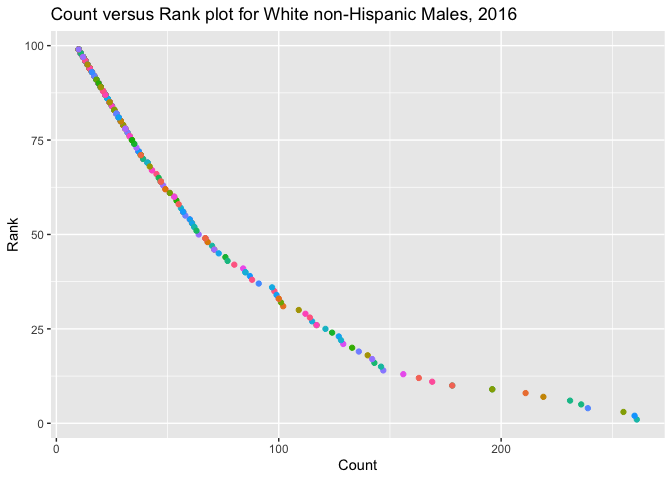
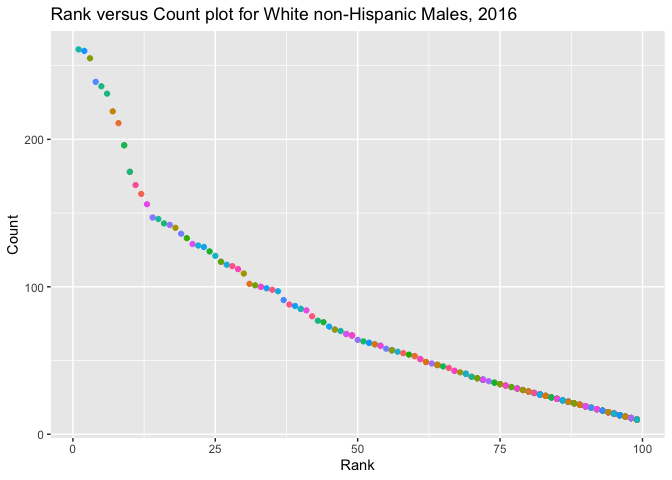
Final touches to scatterplot and descriptions.

diff --git a/hw2_if2282.md b/hw2_if2282.md
@@ -73,9 +73,11 @@ pol_months =
 
 snp = 
   read_csv("data/fivethirtyeight_datasets/snp.csv") %>% 
-  mutate(date = as.Date(date, "%m/%d/%y")) %>%
-  separate(date, sep = '-', into = c("year", "month", "day")) %>%
+  separate(date, sep = '/', into = c("month", "day", "year")) %>%
+  mutate(year = as.numeric(year)) %>%
+  mutate(year = ifelse(year < 20, 2000 + year, 1900 + year)) %>%
   mutate(month = month.abb[as.numeric(month)]) %>%
+  mutate(year = as.character(year)) %>%
   select(-day)
 
 unemploy = 
@@ -97,18 +99,19 @@ fivethree8 =
 
 The pol\_months dataset is related to the number of national politicians
 who are democratic or republican at any given time. The dataset
-contained 822 observations. The snp dataset is related to Standard &
-Poor’s stock market index (S&P), often used as a representative measure
-of stock market as a whole. The dataset contained 787 observations.
-Lastly, the unemploy dataset contains the unemployment rates of the
-years and months. The dataset contained 816 observations.
+contained 822 observations ranging from 1947 to 2015. The snp dataset is
+related to Standard & Poor’s stock market index (S&P), often used as a
+representative measure of stock market as a whole. The dataset contained
+787 observations ranging from 1950 to 2015. Lastly, the unemploy dataset
+contains the unemployment rates of the years and months. The dataset
+contained 816 observations ranging from 1948 to 2015.
 
 The fivethree8 dataset was a merge of all the three datasets listed
-above. It had a total of 558 observations and 11 variables: year, month,
+above. It had a total of 786 observations and 11 variables: year, month,
 gov\_gop, sen\_gop, rep\_gop, gov\_dem, sen\_dem, rep\_dem, president,
-close, unemployment. The years included in this dataset ranged from 1969
+close, unemployment. The years included in this dataset ranged from 1950
 to 2015. When a democrat was president, the mean unemployment rate was
-6.4828829 as compared to an unemployment rate of 6.2276786 when a
+5.769774 as compared to an unemployment rate of 5.9310185 when a
 republican was president.
 
 # Problem 3
@@ -143,12 +146,12 @@ olivia %>%
   knitr::kable()
 ```
 
-| ethnicity                  | 2011 | 2012 | 2013 | 2014 | 2015 | 2016 | 2017 |
-|:---------------------------|-----:|-----:|-----:|-----:|-----:|-----:|-----:|
-| HISPANIC                   |   18 |   22 |   22 |   16 |   16 |   13 |   14 |
-| WHITE NON HISPANIC         |    2 |    4 |    1 |    1 |    1 |    1 |    3 |
-| ASIAN AND PACIFIC ISLANDER |    4 |    3 |    3 |    1 |    1 |    1 |    1 |
-| BLACK NON HISPANIC         |   10 |    8 |    6 |    8 |    4 |    8 |    6 |
+| ethnicity                  | 2011 | 2012 | 2013 | 2014 | 2015 | 2016 |
+|:---------------------------|-----:|-----:|-----:|-----:|-----:|-----:|
+| ASIAN AND PACIFIC ISLANDER |    4 |    3 |    3 |    1 |    1 |    1 |
+| BLACK NON HISPANIC         |   10 |    8 |    6 |    8 |    4 |    8 |
+| HISPANIC                   |   18 |   22 |   22 |   16 |   16 |   13 |
+| WHITE NON HISPANIC         |    2 |    4 |    1 |    1 |    1 |    1 |
 
 ## Table for the most popular male name for different ethnicity over time:
 
@@ -168,12 +171,12 @@ pop_male %>%
   knitr::kable()
 ```
 
-| ethnicity                  | 2011    | 2012   | 2013   | 2014   | 2015   | 2016   | 2017     |
-|:---------------------------|:--------|:-------|:-------|:-------|:-------|:-------|:---------|
-| ASIAN AND PACIFIC ISLANDER | Ethan   | Ryan   | Jayden | Jayden | Jayden | Ethan  | Muhammad |
-| BLACK NON HISPANIC         | Jayden  | Jayden | Ethan  | Ethan  | Noah   | Noah   | Noah     |
-| WHITE NON HISPANIC         | Michael | Joseph | David  | Joseph | David  | Joseph | David    |
-| HISPANIC                   | Jayden  | Jayden | Jayden | Liam   | Liam   | Liam   | Liam     |
+| ethnicity                  | 2011    | 2012   | 2013   | 2014   | 2015   | 2016   |
+|:---------------------------|:--------|:-------|:-------|:-------|:-------|:-------|
+| ASIAN AND PACIFIC ISLANDER | Ethan   | Ryan   | Jayden | Jayden | Jayden | Ethan  |
+| BLACK NON HISPANIC         | Jayden  | Jayden | Ethan  | Ethan  | Noah   | Noah   |
+| HISPANIC                   | Jayden  | Jayden | Jayden | Liam   | Liam   | Liam   |
+| WHITE NON HISPANIC         | Michael | Joseph | David  | Joseph | David  | Joseph |
 
 ## Showing scatter plot for male, white non-Hispanic children born in 2016:
 
@@ -184,12 +187,12 @@ sc_plot =
   select(childs_first_name, count, rank) 
 
 sc_plot %>%
-  ggplot(aes(x = count, y = rank)) +
+  ggplot(aes(x = rank, y = count)) +
   geom_point(aes(color = childs_first_name), show.legend = FALSE) + 
   labs(
-    title = "Count versus Rank plot for White non-Hispanic Males, 2016",
-    x = "Count",
-    y = "Rank"
+    title = "Rank versus Count plot for White non-Hispanic Males, 2016",
+    x = "Rank",
+    y = "Count"
   ) 
 ```
 
